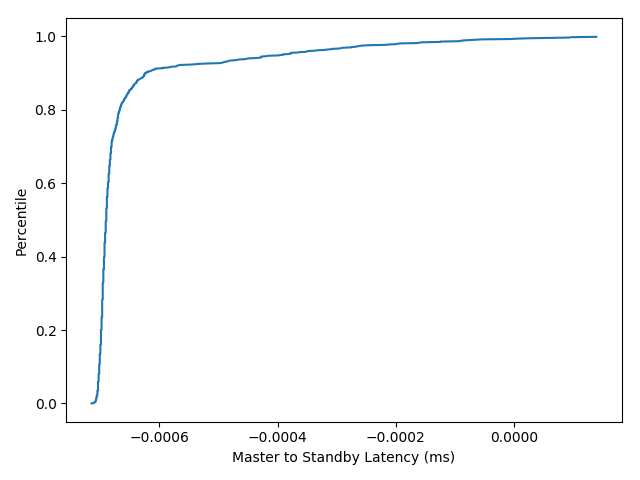
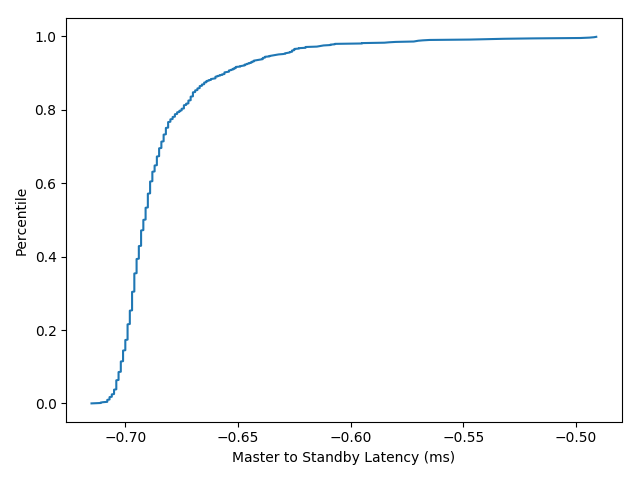
latencies

diff --git a/712_results/get_stats.py b/712_results/get_stats.py
@@ -4,13 +4,13 @@ from datetime import datetime
 import pandas as pd
 import numpy as np
 
-def get_dec_s(secs, scale):
+def get_dec_s(secs):
     base, exp = secs.split("-")
-    return float("0.{}{}".format("0" * int(exp), base)) * scale
+    return float("0.{}{}".format("0" * int(exp), base))
 
 def reject_outliers(data):
     np_data = np.array(data)
-    quartile_1, quartile_3 = np.percentile(np_data, [5, 95])
+    quartile_1, quartile_3 = np.percentile(np_data, [10, 90])
     iqr = quartile_3 - quartile_1
     lower_bound = quartile_1 - (iqr * 1.5)
     upper_bound = quartile_3 + (iqr * 1.5)
@@ -56,24 +56,21 @@ def graph_one_way_latency(standby_log, comm_method):
                 split_line = line.split("sendtime")[1].split()
 
                 send_time = split_line[1]
-                send_time_t = pd.Timestamp(send_time.split(".")[0])
-                send_time = get_dec_s(send_time.split(".")[1], 1000000)
+                # send_time_t = pd.Timestamp(send_time.split(".")[0])
+                # send_time = get_dec_s(send_time.split(".")[1])
                 # send_time = pd.Timestamp(send_time_t + strsend_time_s)
+                send_time = pd.Timestamp(send_time.split("-")[0])
 
                 receipt_time = split_line[4]
-                receipt_time_t = pd.Timestamp(receipt_time.split(".")[0])
-                receipt_time = get_dec_s(receipt_time.split(".")[1], 1000000)
+                # receipt_time_t = pd.Timestamp(receipt_time.split(".")[0])
+                # receipt_time = get_dec_s(receipt_time.split(".")[1])
                 # receipt_time = pd.Timestamp(receipt_time_t + receipt_time_s)
+                receipt_time = pd.Timestamp(receipt_time.split("-")[0])
                 
-                item = None
-                if (receipt_time_t - send_time_t).total_seconds() > 0:
-                    item = ((receipt_time_t - send_time_t).total_seconds() * 1000 + 
-                        (receipt_time - send_time))
-                else:
-                    item = receipt_time - send_time
+                # item = ((receipt_time_t - send_time_t).total_seconds() + 
+                #     (receipt_time - send_time)) * 1000000
+                item = (receipt_time - send_time).total_seconds() * 1000
                 latencies.append(item)
-                if item < 0:
-                    print(receipt_time_t, send_time_t, receipt_time, send_time)
     
     print(max(latencies), min(latencies))
     latencies = reject_outliers(latencies)
@@ -97,21 +94,20 @@ def graph_rtt_latency(primary_log, standby_log, comm_method):
                 split_line = line.split("sendtime")[1].split()
 
                 send_time = split_line[1]
-                send_time_t = pd.Timestamp(send_time.split(".")[0])
-                send_time = get_dec_s(send_time.split(".")[1], 1000000)
+                # send_time_t = pd.Timestamp(send_time.split(".")[0])
+                # send_time = get_dec_s(send_time.split(".")[1])
                 # send_time = pd.Timestamp(send_time_t + strsend_time_s)
+                send_time = pd.Timestamp(send_time.split("-")[0])
 
                 receipt_time = split_line[4]
-                receipt_time_t = pd.Timestamp(receipt_time.split(".")[0])
-                receipt_time = get_dec_s(receipt_time.split(".")[1], 1000000)
+                # receipt_time_t = pd.Timestamp(receipt_time.split(".")[0])
+                # receipt_time = get_dec_s(receipt_time.split(".")[1])
                 # receipt_time = pd.Timestamp(receipt_time_t + receipt_time_s)
+                receipt_time = pd.Timestamp(receipt_time.split("-")[0])
                 
-                item = None
-                if (receipt_time_t - send_time_t).total_seconds() > 0:
-                    item = ((receipt_time_t - send_time_t).total_seconds() * 1000 + 
-                        (receipt_time - send_time))
-                else:
-                    item = receipt_time - send_time
+                # item = ((receipt_time_t - send_time_t).total_seconds() + 
+                #     (receipt_time - send_time)) * 1000000
+                item = (receipt_time - send_time).total_seconds() * 1000
                 ms_latencies.append(item)
     
     sm_latencies = []
@@ -123,21 +119,20 @@ def graph_rtt_latency(primary_log, standby_log, comm_method):
                     split_line = line.split("reply_time")[1].split()
 
                     send_time = split_line[1]
-                    send_time_t = pd.Timestamp(send_time.split(".")[0])
-                    send_time = get_dec_s(send_time.split(".")[1], 1000000)
+                    # send_time_t = pd.Timestamp(send_time.split(".")[0])
+                    # send_time = get_dec_s(send_time.split(".")[1])
                     # send_time = pd.Timestamp(send_time_t + strsend_time_s)
+                    send_time = pd.Timestamp(send_time.split("-")[0])
 
                     receipt_time = split_line[4]
-                    receipt_time_t = pd.Timestamp(receipt_time.split(".")[0])
-                    receipt_time = get_dec_s(receipt_time.split(".")[1], 1000000)
+                    # receipt_time_t = pd.Timestamp(receipt_time.split(".")[0])
+                    # receipt_time = get_dec_s(receipt_time.split(".")[1])
                     # receipt_time = pd.Timestamp(receipt_time_t + receipt_time_s)
+                    receipt_time = pd.Timestamp(receipt_time.split("-")[0])
                     
-                    item = None
-                    if (receipt_time_t - send_time_t).total_seconds() > 0:
-                        item = ((receipt_time_t - send_time_t).total_seconds() * 1000 + 
-                            (receipt_time - send_time))
-                    else:
-                        item = receipt_time - send_time
+                    # item = ((receipt_time_t - send_time_t).total_seconds() + 
+                    #     (receipt_time - send_time)) * 1000000
+                    item = (receipt_time - send_time).total_seconds() * 1000
                     sm_latencies.append(item)
                     
                     alt = False
@@ -149,7 +144,8 @@ def graph_rtt_latency(primary_log, standby_log, comm_method):
     elif len(ms_latencies) < len(sm_latencies):
         sm_latencies = sm_latencies[0:len(ms_latencies)]
     print(len(ms_latencies), len(sm_latencies))
-    trips = zip(ms_latencies, sm_latencies)
+    trips = list(zip(ms_latencies, sm_latencies))
+    print(trips[0:10])
     latencies = [sum(trip) for trip in trips]
     
     print(max(latencies), min(latencies))
@@ -174,6 +170,6 @@ if __name__ == "__main__":
     primary_log = sys.argv[1]
     standby_log = sys.argv[2]
 
-    # graph_msg_size(primary_log, sys.argv[3])
+    graph_msg_size(primary_log, sys.argv[3])
     graph_one_way_latency(standby_log, sys.argv[3])
-    # graph_rtt_latency(primary_log, standby_log, sys.argv[3])
+    graph_rtt_latency(primary_log, standby_log, sys.argv[3])
